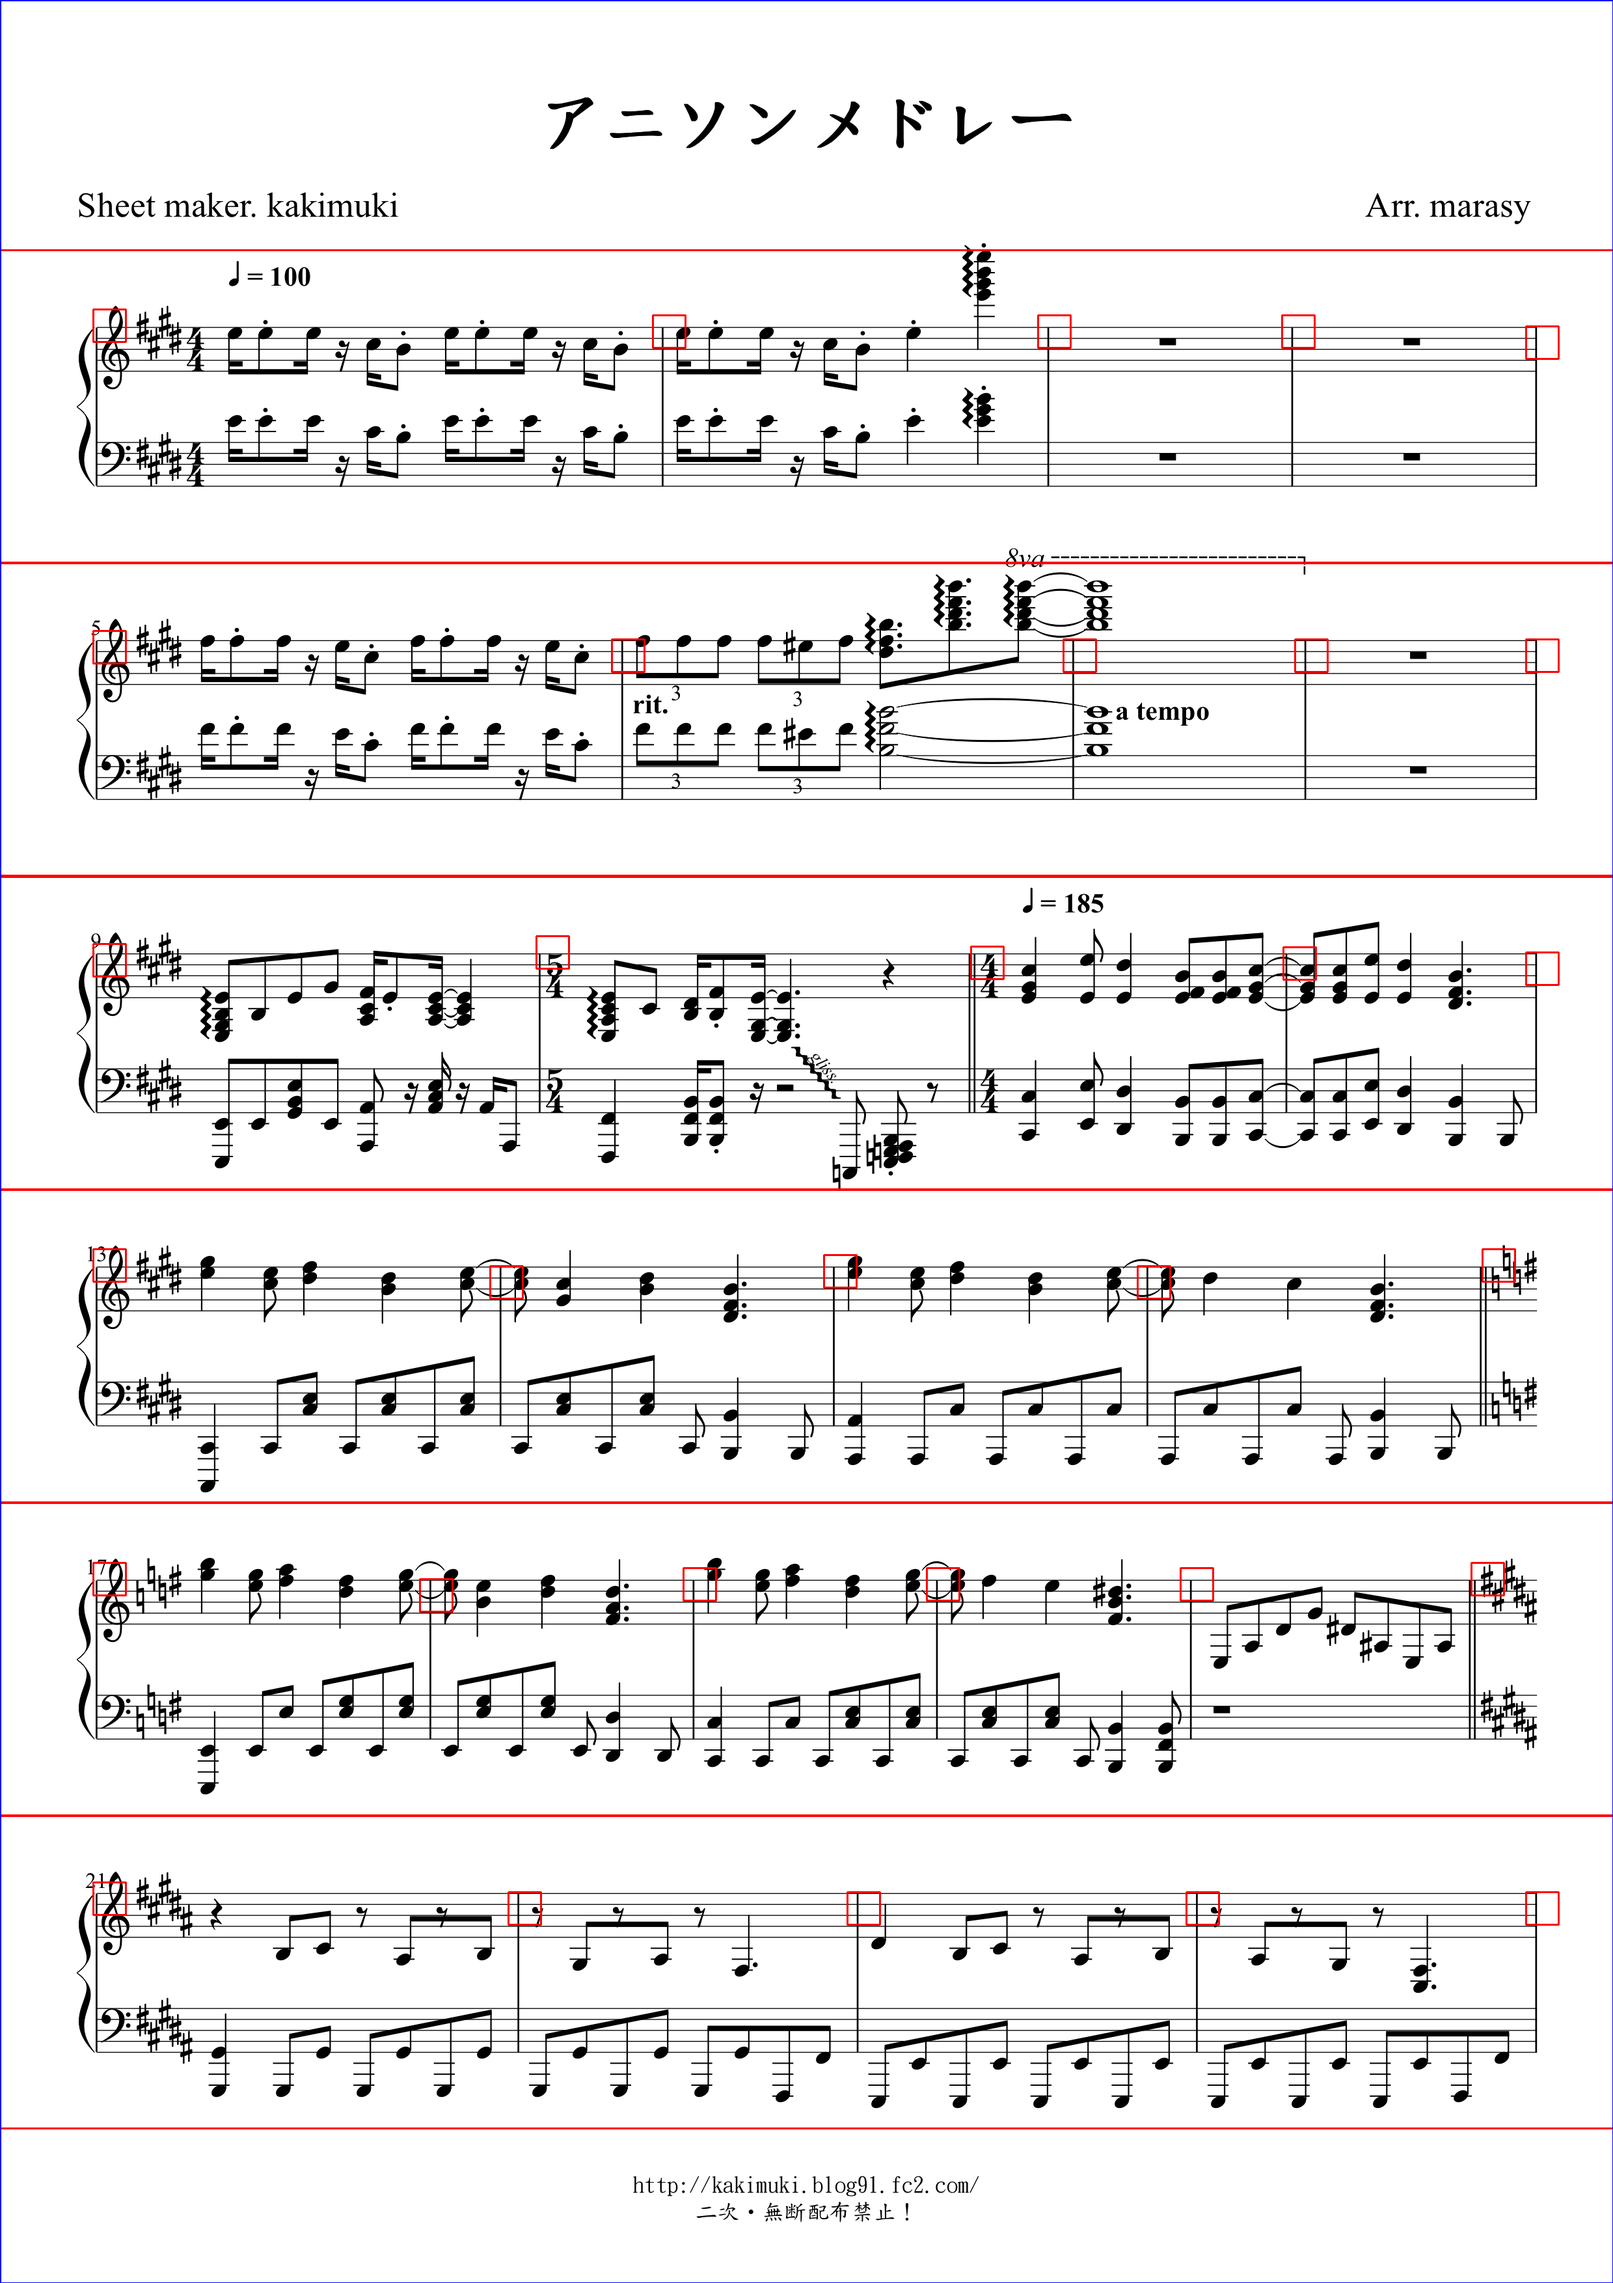
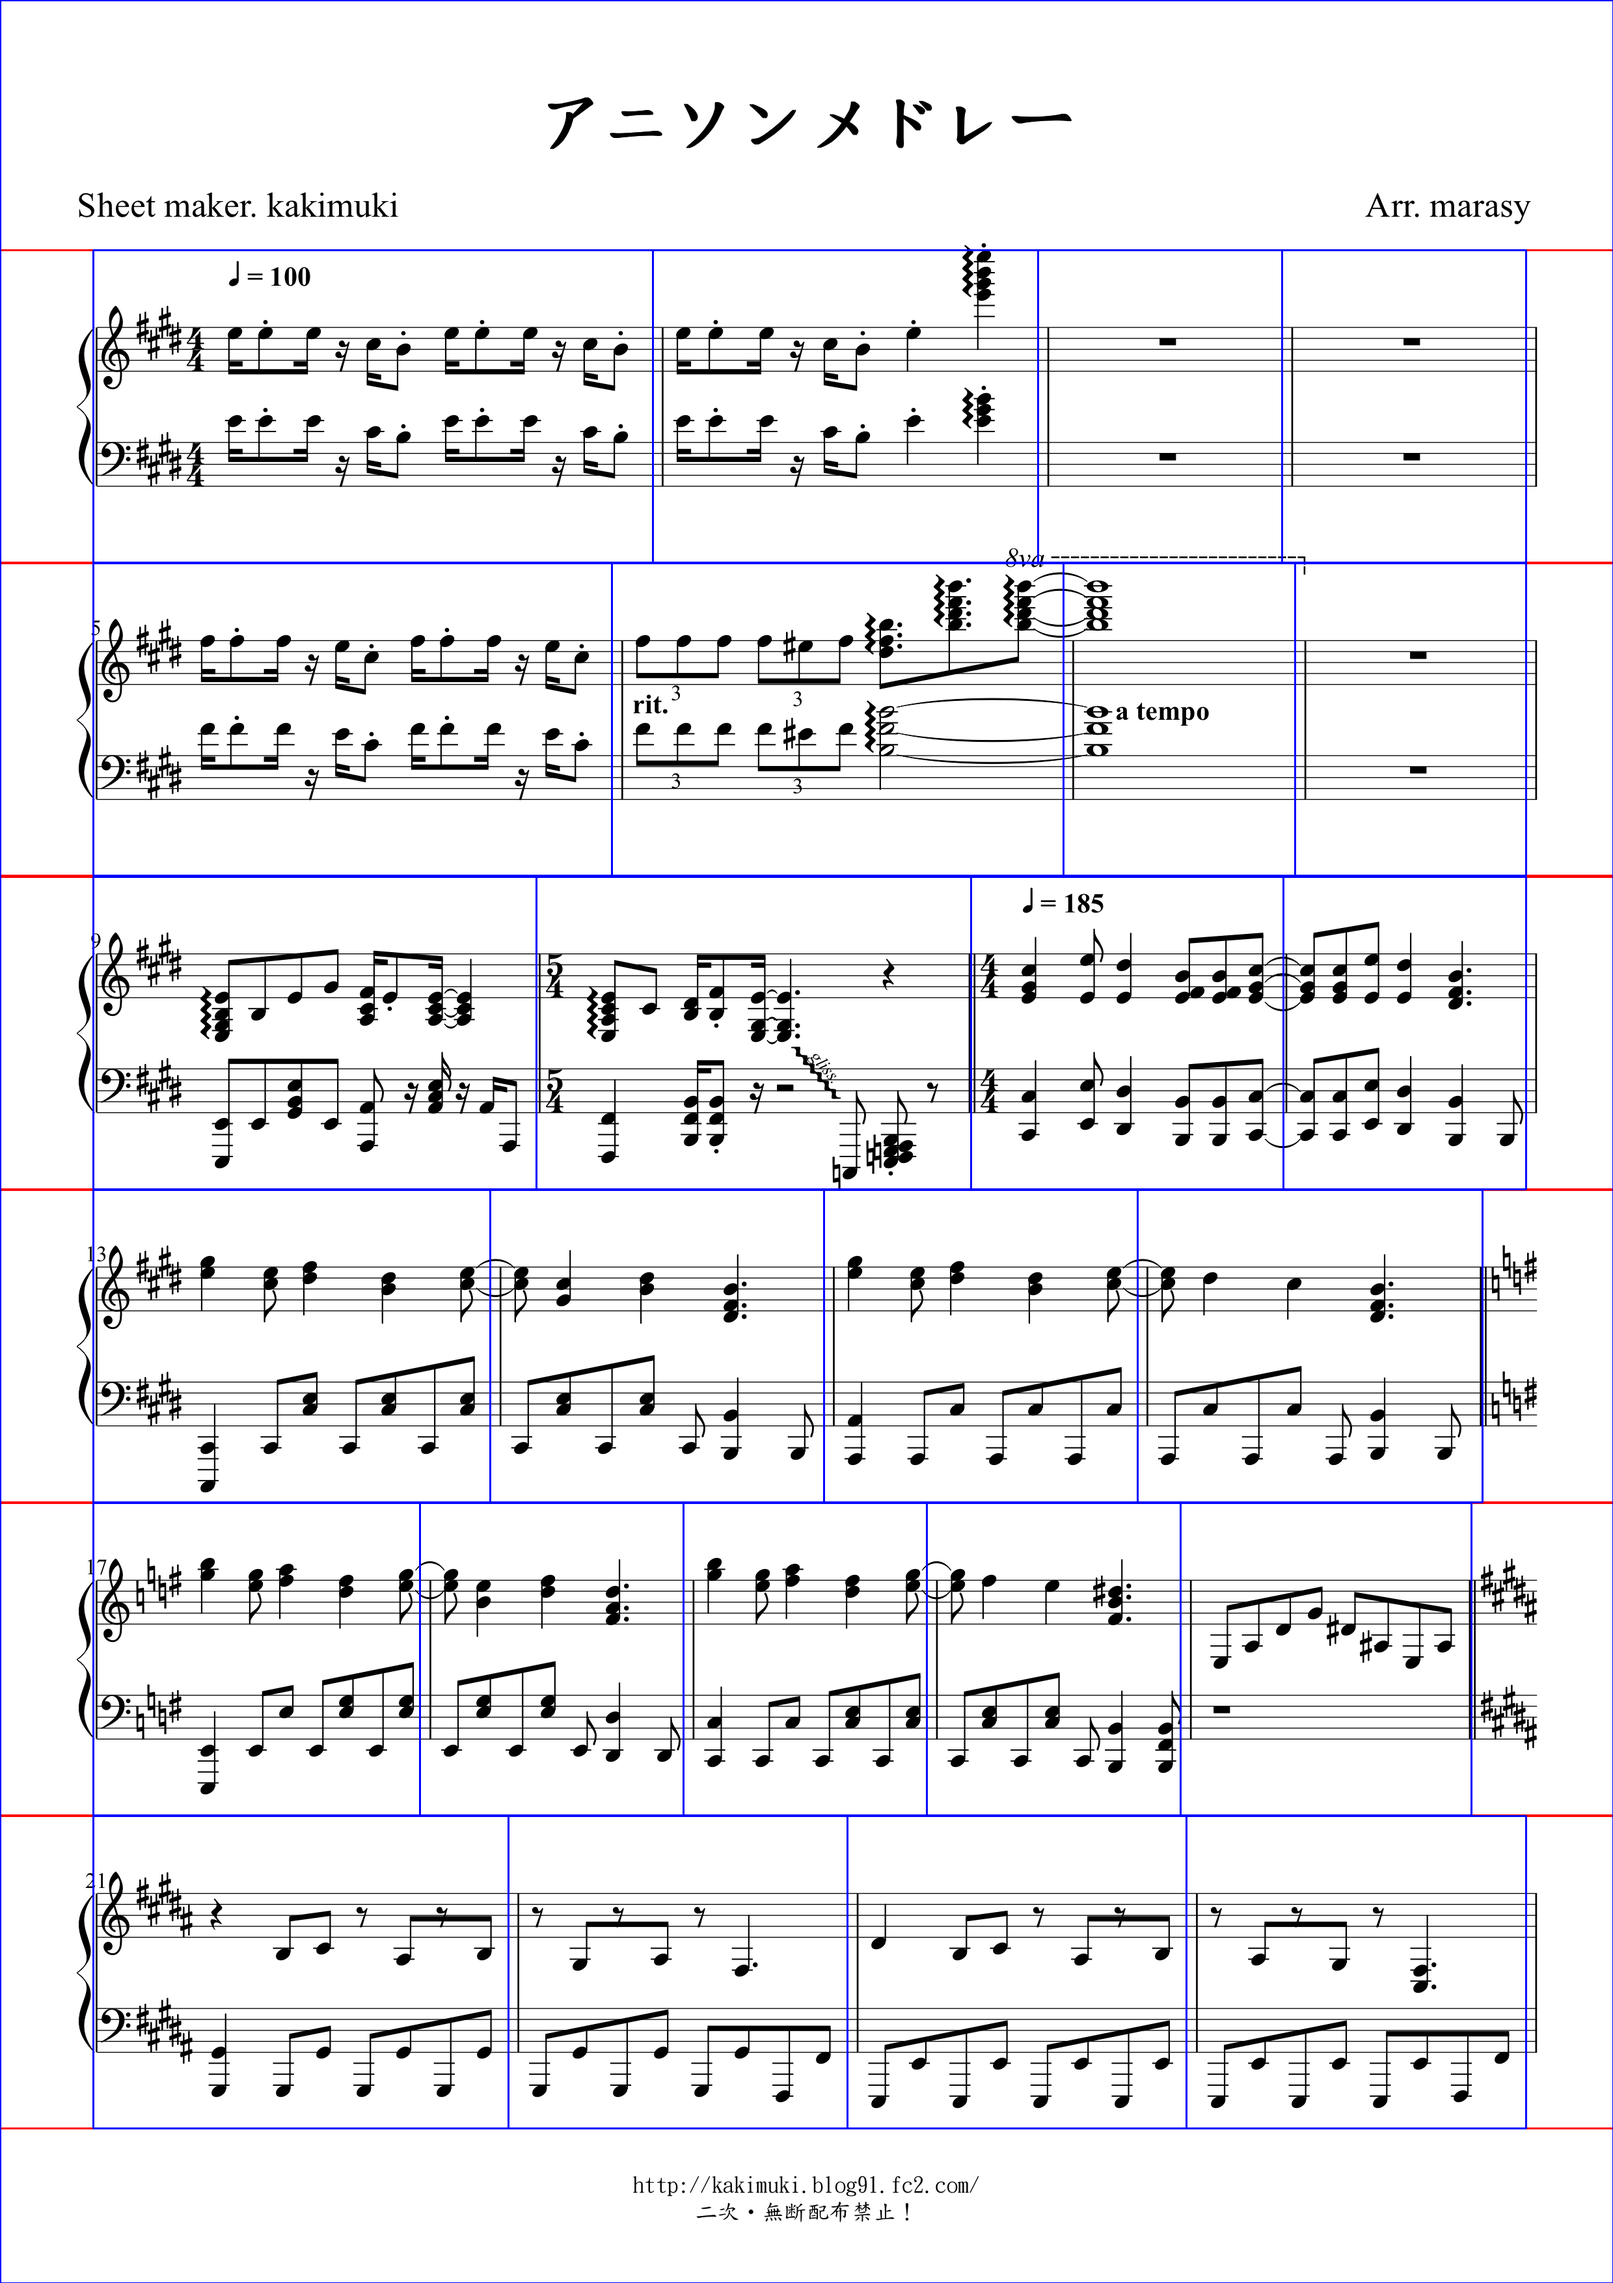
bar

diff --git a/src/sheet.py b/src/sheet.py
@@ -7,19 +7,17 @@ from src.constants import *
 
 class Sheet:
 
-    width = 0
+    width = None
 
-    height = 0
+    height = None
 
-    top_left = (0, 0)
+    top_left = None
 
     image = None
 
     lines = []
 
-    line_height = 250
-
-    line_pos = []
+    line_height = None
 
     line_gap = 0
 
@@ -28,11 +26,13 @@ class Sheet:
         self.width = self.image.shape[::-1][1]
         self.height = self.image.shape[::-1][2]
         self.line_height = line_height
+        self.top_left = (0, 0)
 
         self.build_lines()
 
         self.draw_lines()
         self.draw_sheet()
+        self.draw_bars()
 
         save('test.png', self.image)
 
@@ -53,6 +53,15 @@ class Sheet:
         points = remove_close_point(result, 2000)
         return points
 
+    def find_all_bar_lines(self):
+        result = []
+        for image_path in os.listdir(bar_line_dir):
+            if image_path.endswith(".png"):
+                bar_line = read_template(bar_line_dir+image_path)
+                result = result + find_all_match(self.image, bar_line, 0.85)
+        points = remove_close_point(result, 5000)
+        return points
+
     def draw_sheet(self):
         draw_one_rectangle(self.image, (0, 0), self.width, self.height, blue)
 
@@ -60,14 +69,6 @@ class Sheet:
         for line in self.lines:
             line.draw_line()
 
-    def find_all_bar_lines(self):
-        result = []
-        for image_path in os.listdir(bar_line_dir):
-            if image_path.endswith(".png"):
-                bar_line = read_template(bar_line_dir+image_path)
-                result = result + find_all_match(self.image, bar_line, 0.85)
-
-        points = remove_close_point(result, 5000)
-
-        draw_all_rectangles(self.image, points, 50, 50, red)
-        return points
+    def draw_bars(self):
+        for line in self.lines:
+            line.draw_bars()

diff --git a/src/line.py b/src/line.py
@@ -1,5 +1,6 @@
 from src.tools import *
 from src.constants import *
+from src.bar import *
 import os
 
 
@@ -17,8 +18,6 @@ class Line:
 
     bars = []
 
-    bar_line_points = None
-
     def __init__(self, image, top_left_point, line_height, line_gap, all_bar_line_points):
         self.image = image
         self.line_height = line_height
@@ -31,10 +30,20 @@ class Line:
         
 
     def build_bars(self, all_bar_line_points):
+        bar_line_points = []
         for bar_line_point in all_bar_line_points:
             if (self.contains(bar_line_point)):
-                self.bar_line_points.append(bar_line_point)
-        print(self.bar_line_points)
+                bar_line_points.append(bar_line_point)
+
+        for i in range(0, len(bar_line_points)-1):
+            bar_line_point_start = bar_line_points[i]
+            bar_line_point_end = bar_line_points[i+1]
+            width = bar_line_point_end[0]-bar_line_point_start[0]
+            top_left_point = (bar_line_point_start[0], self.top_left_point[1])
+            bar = Bar(self.image, top_left_point, width, self.line_height, self.line_gap)
+            self.bars.append(bar)
+
+        print(bar_line_points)
 
     def label_all_bar_lines(self):
         result = []
@@ -56,3 +65,7 @@ class Line:
 
     def draw_line(self):
         draw_one_rectangle(self.image, self.top_left_point, self.width, self.line_height+self.line_gap*2, red)
+
+    def draw_bars(self):
+        for bar in self.bars:
+            bar.draw_bar()

diff --git a/src/bar.py b/src/bar.py
@@ -1,0 +1,25 @@
+from src.tools import *
+from src.constants import *
+
+class Bar:
+
+    image = None
+
+    top_left_point = None
+
+    width = None
+
+    line_height = None
+
+    line_gap = None
+
+    def __init__(self, image, top_left_point, width, line_height, line_gap):
+        self.image = image
+        self.top_left_point = top_left_point
+        self.width = width
+        self.line_height = line_height
+        self.line_gap = line_gap
+
+    def draw_bar(self):
+        height = self.line_height + self.line_gap*2
+        draw_one_rectangle(self.image, self.top_left_point, self.width, height, blue)
